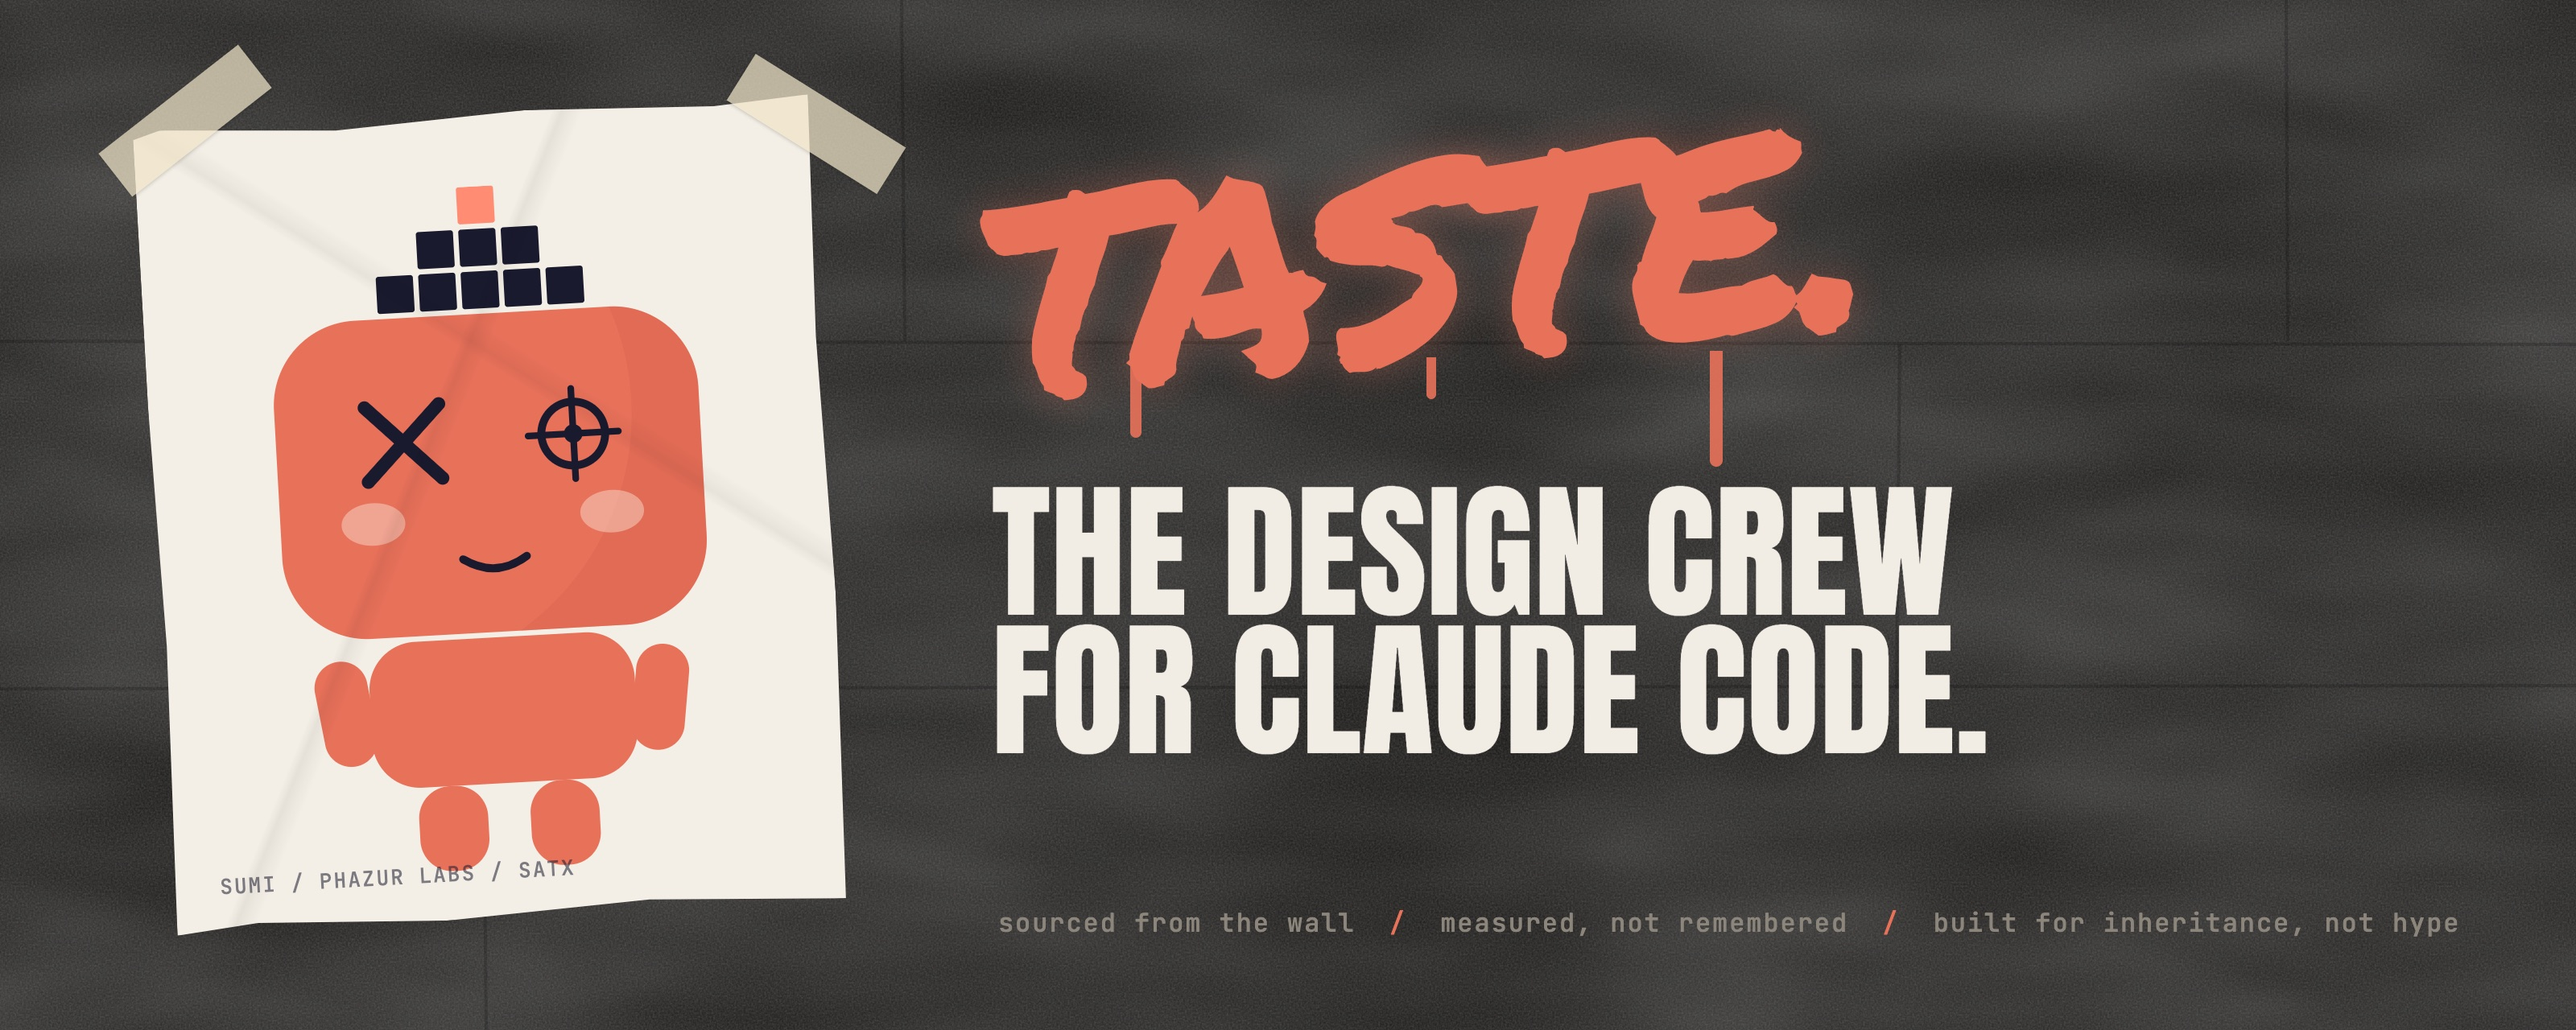
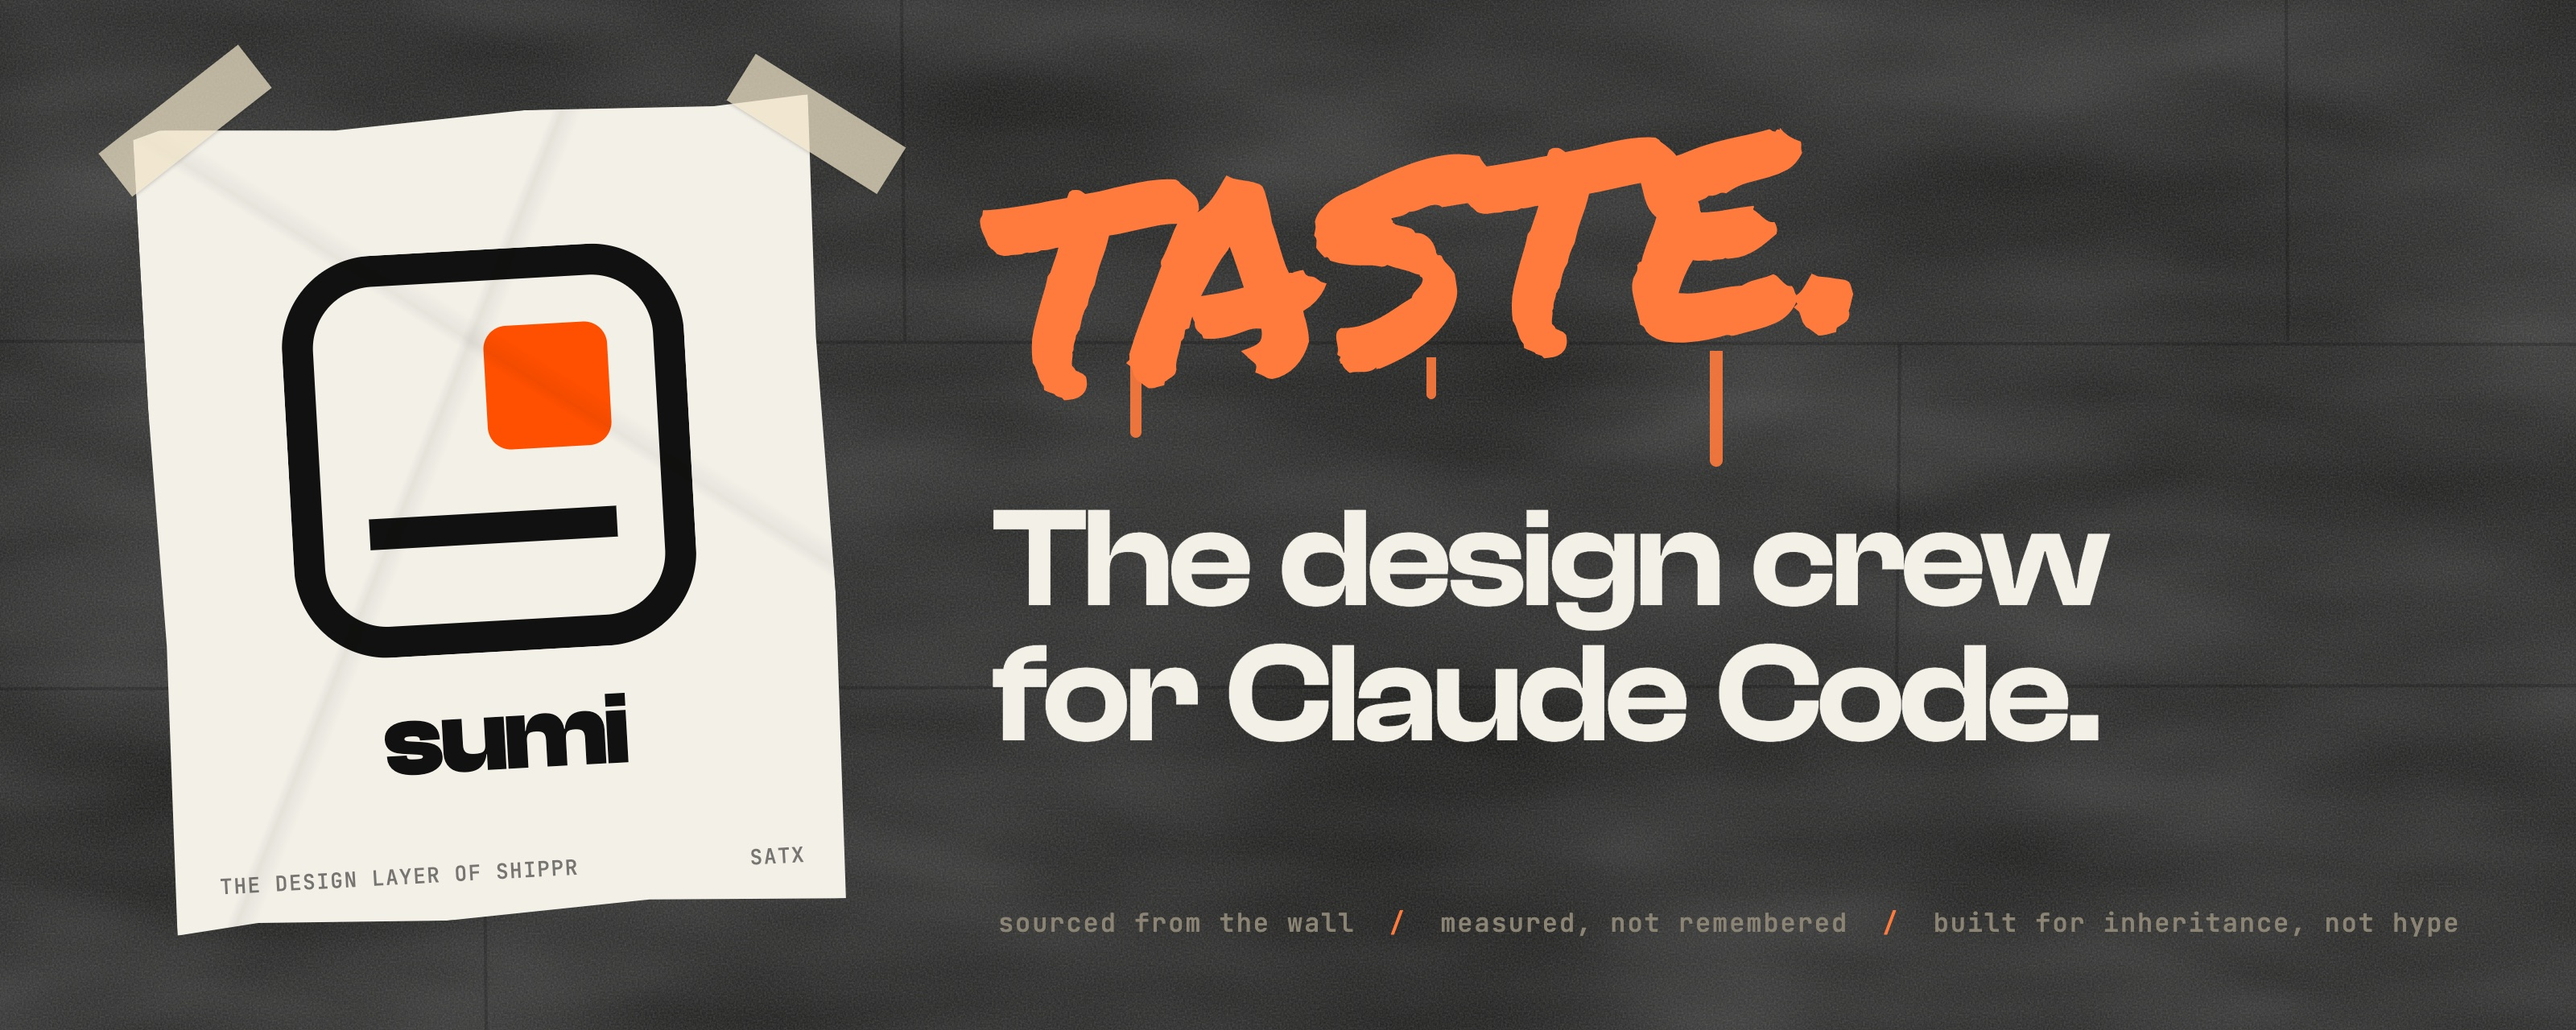
Adopt the Shippr mark: Sumi is Shippr's design layer
Sumi now shares Shippr's mark (framed square, signal block, base line) and
signal orange. The hero trades the pixel mascot for the mark on the
wheatpaste poster with Clash Display type; the before/after card picks up
the signal accent; the README names Sumi as the design layer of Shippr.

diff --git a/assets/src/hero.html b/assets/src/hero.html
@@ -1,14 +1,16 @@
 <!doctype html>
 <!-- README hero. Rendered to assets/hero-dark.png and assets/hero-light.png by
-     assets/src/render.mjs (?theme=dark|light). 1600x640 CSS px at 2x. -->
+     assets/src/render.mjs (?theme=dark|light), then shipped as JPEG. 1600x640 CSS px at 2x.
+     Brand: the Sumi mark is shared with Shippr (Sumi is Shippr's design layer). -->
 <html lang="en">
 <head>
 <meta charset="utf-8" />
-<link rel="preconnect" href="https://fonts.googleapis.com" />
-<link href="https://fonts.googleapis.com/css2?family=Anton&family=Permanent+Marker&family=JetBrains+Mono:wght@500&display=swap" rel="stylesheet" />
+<link href="https://api.fontshare.com/v2/css?f[]=clash-display@600,700&display=swap" rel="stylesheet" />
+<link href="https://fonts.googleapis.com/css2?family=Permanent+Marker&family=JetBrains+Mono:wght@500&display=swap" rel="stylesheet" />
 <style>
-  :root { --wall: #151412; --ink: #F1ECE4; --muted: #8C857B; --coral: #E8715A; --paper: #F4EFE6; --paper-ink: #1A1A2E; }
-  :root[data-theme="light"] { --wall: #E9E4DA; --ink: #16140F; --muted: #6F685D; --paper: #FFFDF8; }
+  /* Shippr brand tokens: paper #f3f0e8, ink #111110, signal #ff4f00 (#ff7a3d as a graphic on ink) */
+  :root { --wall: #141412; --ink: #f3f0e8; --muted: #8b8474; --signal: #ff7a3d; --paper: #f3f0e8; --paper-ink: #111110; }
+  :root[data-theme="light"] { --wall: #e8e3d8; --ink: #111110; --muted: #6b665c; --signal: #ff4f00; --paper: #fbf9f4; }
   * { margin: 0; box-sizing: border-box; }
   html, body { width: 1600px; height: 640px; overflow: hidden; background: var(--wall); }
   .wall { position: absolute; inset: 0; }
@@ -20,20 +22,20 @@
   .paste::after { content: ""; position: absolute; inset: 0; background:
       linear-gradient(115deg, transparent 40%, rgba(0,0,0,.06) 41%, transparent 43%),
       linear-gradient(35deg, transparent 62%, rgba(0,0,0,.05) 63%, transparent 65%); mix-blend-mode: multiply; }
-  .paste svg { position: absolute; left: 50%; top: 52%; width: 330px; transform: translate(-50%, -50%); }
-  .paste .caption { position: absolute; left: 28px; bottom: 22px; font: 500 13px/1 'JetBrains Mono', monospace; letter-spacing: .08em; color: var(--paper-ink); opacity: .55; }
+  .paste .mark { position: absolute; left: 50%; top: 42%; width: 250px; transform: translate(-50%, -50%); color: var(--paper-ink); }
+  .paste .word { position: absolute; left: 0; right: 0; top: 356px; text-align: center; font: 700 64px/1 'Clash Display', sans-serif; letter-spacing: -.03em; color: var(--paper-ink); }
+  .paste .caption { position: absolute; left: 28px; right: 28px; bottom: 22px; display: flex; justify-content: space-between; font: 500 13px/1 'JetBrains Mono', monospace; letter-spacing: .06em; color: var(--paper-ink); opacity: .55; }
   .tape { position: absolute; width: 110px; height: 34px; background: rgba(240,228,200,.72); box-shadow: 0 1px 2px rgba(0,0,0,.15); }
   .t1 { left: 60px; top: 58px; transform: rotate(-38deg); }
   .t2 { left: 452px; top: 60px; transform: rotate(32deg); }
   /* type */
-  .tag { position: absolute; left: 610px; top: 36px; font: 400 210px/1 'Permanent Marker', cursive; color: var(--coral);
-         transform: rotate(-5deg); text-shadow: 0 0 22px rgba(232,113,90,.35); letter-spacing: -.01em; }
-  .drip { position: absolute; width: 7px; border-radius: 0 0 6px 6px; background: var(--coral); opacity: .9; }
+  .tag { position: absolute; left: 610px; top: 36px; font: 400 210px/1 'Permanent Marker', cursive; color: var(--signal);
+         transform: rotate(-5deg); letter-spacing: -.01em; }
+  .drip { position: absolute; width: 7px; border-radius: 0 0 6px 6px; background: var(--signal); opacity: .9; }
   .d1 { left: 702px; top: 226px; height: 46px; } .d2 { left: 886px; top: 222px; height: 26px; width: 6px; } .d3 { left: 1062px; top: 218px; height: 72px; width: 8px; }
-  h1 { position: absolute; left: 616px; top: 300px; width: 900px; font: 400 92px/.94 'Anton', sans-serif; color: var(--ink);
-       text-transform: uppercase; letter-spacing: .005em; }
+  h1 { position: absolute; left: 616px; top: 306px; width: 920px; font: 600 88px/.96 'Clash Display', sans-serif; color: var(--ink); letter-spacing: -.035em; word-spacing: .1em; }
   .sig { position: absolute; left: 620px; bottom: 58px; font: 500 16px/1 'JetBrains Mono', monospace; color: var(--muted); letter-spacing: .06em; }
-  .sig b { color: var(--coral); font-weight: 500; }
+  .sig b { color: var(--signal); font-weight: 500; }
 </style>
 </head>
 <body>
@@ -51,18 +53,9 @@
 </div>
 
 <div class="paste">
-  <svg viewBox="0 0 200 260" xmlns="http://www.w3.org/2000/svg">
-    <g fill="#1A1A2E"><rect x="93" y="16" width="14" height="14" rx="1"/><rect x="93" y="32" width="14" height="14" rx="1"/><rect x="77" y="16" width="14" height="14" rx="1"/><rect x="77" y="32" width="14" height="14" rx="1"/><rect x="109" y="16" width="14" height="14" rx="1"/><rect x="109" y="32" width="14" height="14" rx="1"/><rect x="61" y="32" width="14" height="14" rx="1"/><rect x="125" y="32" width="14" height="14" rx="1"/></g>
-    <rect fill="#FF8C73" x="93" y="0" width="14" height="14" rx="1"/>
-    <rect fill="#E8715A" x="20" y="48" width="160" height="120" rx="32"/>
-    <path fill="#D4604D" d="M148,48 a32,32 0 0 1 32,32 v56 a32,32 0 0 1 -32,32 h-40 a100,100 0 0 0 40,-120Z" opacity=".35"/>
-    <g transform="translate(68,95)" stroke="#1A1A2E" stroke-width="5" stroke-linecap="round"><line x1="-14" y1="-14" x2="14" y2="14"/><line x1="14" y1="-14" x2="-14" y2="14"/></g>
-    <g transform="translate(132,95)" stroke="#1A1A2E" stroke-linecap="round"><circle r="12" fill="none" stroke-width="3"/><line x1="-17" x2="17" stroke-width="2.5"/><line y1="-17" y2="17" stroke-width="2.5"/><circle r="3.5" fill="#1A1A2E" stroke="none"/></g>
-    <ellipse fill="#F5C6B8" cx="55" cy="125" rx="12" ry="8" opacity=".6"/><ellipse fill="#F5C6B8" cx="145" cy="125" rx="12" ry="8" opacity=".6"/>
-    <path d="M88,140 Q100,148 112,140" fill="none" stroke="#1A1A2E" stroke-width="3" stroke-linecap="round"/>
-    <g fill="#E8715A"><rect x="50" y="170" width="100" height="55" rx="18"/><rect x="28" y="176" width="20" height="40" rx="10" transform="rotate(-8,38,176)"/><rect x="152" y="176" width="20" height="40" rx="10" transform="rotate(8,162,176)"/><rect x="66" y="225" width="26" height="32" rx="12"/><rect x="108" y="225" width="26" height="32" rx="12"/></g>
-  </svg>
-  <div class="caption">SUMI / PHAZUR LABS / SATX</div>
+  <svg class="mark" viewBox="0 0 26 26" xmlns="http://www.w3.org/2000/svg"><rect x="1" y="1" width="24" height="24" rx="5" fill="none" stroke="currentColor" stroke-width="2"/><rect x="13" y="5" width="8" height="8" rx="1.5" fill="#ff4f00"/><path d="M5 18h16" stroke="currentColor" stroke-width="2"/></svg>
+  <div class="word">sumi</div>
+  <div class="caption"><span>THE DESIGN LAYER OF SHIPPR</span><span>SATX</span></div>
 </div>
 <div class="tape t1"></div><div class="tape t2"></div>
 

diff --git a/assets/src/before-after.html b/assets/src/before-after.html
@@ -6,7 +6,7 @@
 <meta charset="utf-8" />
 <link href="https://fonts.googleapis.com/css2?family=Anton&family=Permanent+Marker&family=JetBrains+Mono:wght@500&display=swap" rel="stylesheet" />
 <style>
-  :root { --wall: #151412; --ink: #F1ECE4; --muted: #8C857B; --coral: #E8715A; --line: rgba(241,236,228,.14); }
+  :root { --wall: #151412; --ink: #F1ECE4; --muted: #8C857B; --coral: #ff7a3d; --line: rgba(241,236,228,.14); }
   * { margin: 0; box-sizing: border-box; }
   html, body { width: 1600px; background: var(--wall); color: var(--ink); font: 500 15px/1.4 'JetBrains Mono', monospace; }
   body { padding: 88px 72px 56px; }

diff --git a/README.md b/README.md
@@ -2,11 +2,13 @@
   <picture>
     <source media="(prefers-color-scheme: dark)" srcset="assets/hero-dark.jpg" />
     <source media="(prefers-color-scheme: light)" srcset="assets/hero-light.jpg" />
-    <img src="assets/hero-dark.jpg" alt="Sumi: a pixel mascot wheat-pasted on a concrete wall next to the tag 'taste.' and the line 'The design crew for Claude Code.'" width="100%" />
+    <img src="assets/hero-dark.jpg" alt="The Sumi mark, a framed square with an orange block, wheat-pasted on a concrete wall next to the spray tag 'taste.' and the line 'The design crew for Claude Code.'" width="100%" />
   </picture>
 </p>
 
 <h3 align="center">The design crew for Claude Code. Taste, sourced from the wall.</h3>
+
+<p align="center"><img src="assets/sumi-mark.svg" width="18" alt="" /> The design layer of <a href="https://getshippr.pages.dev">Shippr</a>.</p>
 
 <p align="center">
   <code>/plugin marketplace add phazurlabs/sumi</code> → <code>/plugin install sumi@sumi-marketplace</code> → <code>/sumi:start</code>
@@ -248,6 +250,18 @@ Skills fire on their own when a question calls for them.
 
 ---
 
+## Sumi × Shippr
+
+Sumi and [Shippr](https://getshippr.pages.dev) share one mark, because they're one crew working two jobs.
+
+**Shippr** judges whether an AI-built app is ready to ship: architecture, security, the production gates a senior engineering team would hold you to.
+
+**Sumi** is the design layer. It makes sure the app looks like it deserves to ship.
+
+Shippr asks whether it will hold up. Sumi asks whether it's worth looking at. You need both answers before you ship.
+
+---
+
 ## Why Sumi exists
 
 I was the kid with the blackbook: graffiti, MySpace pages, beats in the Napster days.
@@ -354,4 +368,4 @@ The wall itself belongs to the jury picks on [Awwwards](https://www.awwwards.com
 
 Apache-2.0. See `LICENSE`, `NOTICE` and `TRADEMARKS.md`. Contributions need a CLA; see `CONTRIBUTING.md`.
 
-<p align="center"><b>Built for inheritance, not hype.</b><br /><sub>Phazur Labs · San Antonio</sub></p>
+<p align="center"><img src="assets/sumi-mark.svg" width="28" alt="Sumi" /><br /><b>Built for inheritance, not hype.</b><br /><sub>Sumi is the design layer of <a href="https://getshippr.pages.dev">Shippr</a> · Phazur Labs · San Antonio</sub></p>
